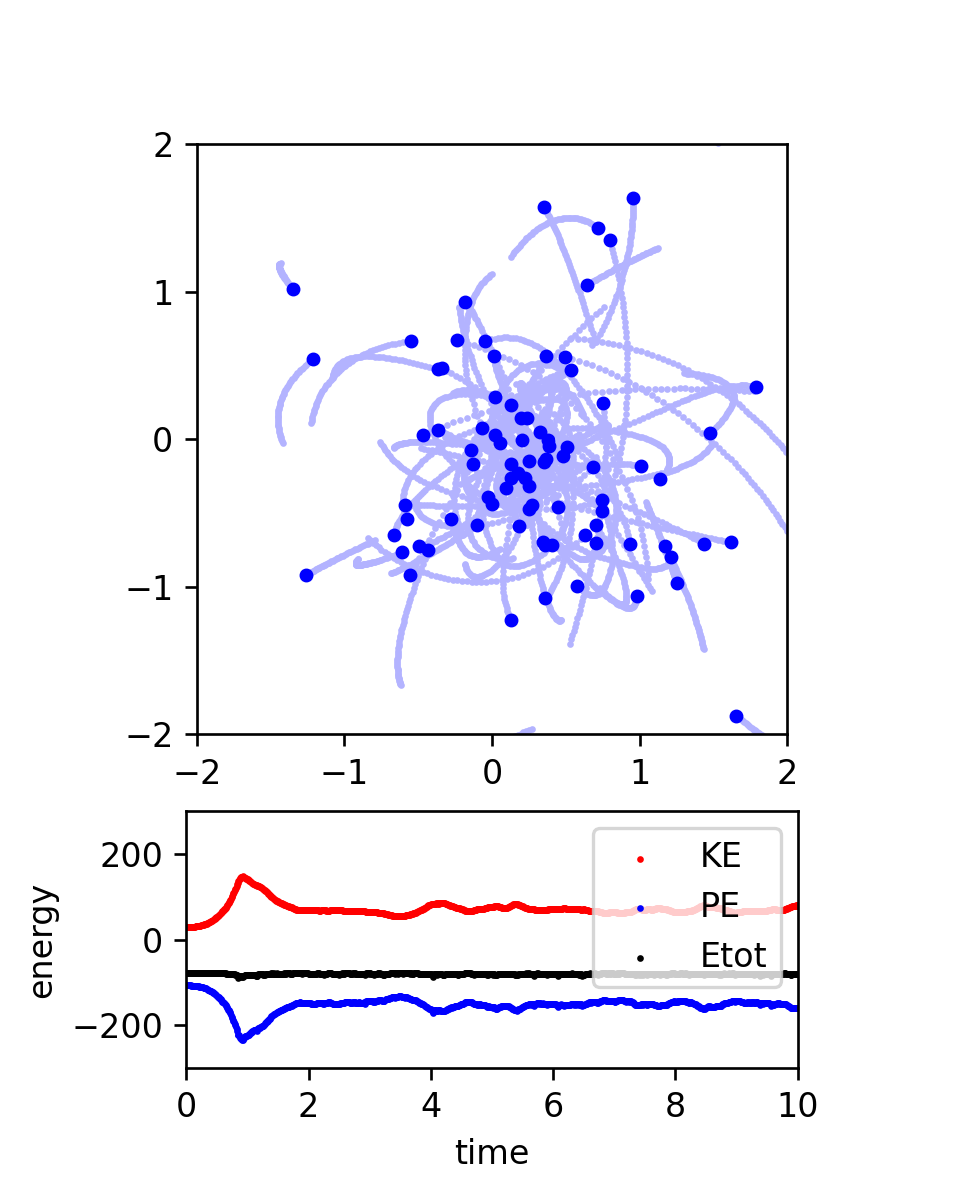
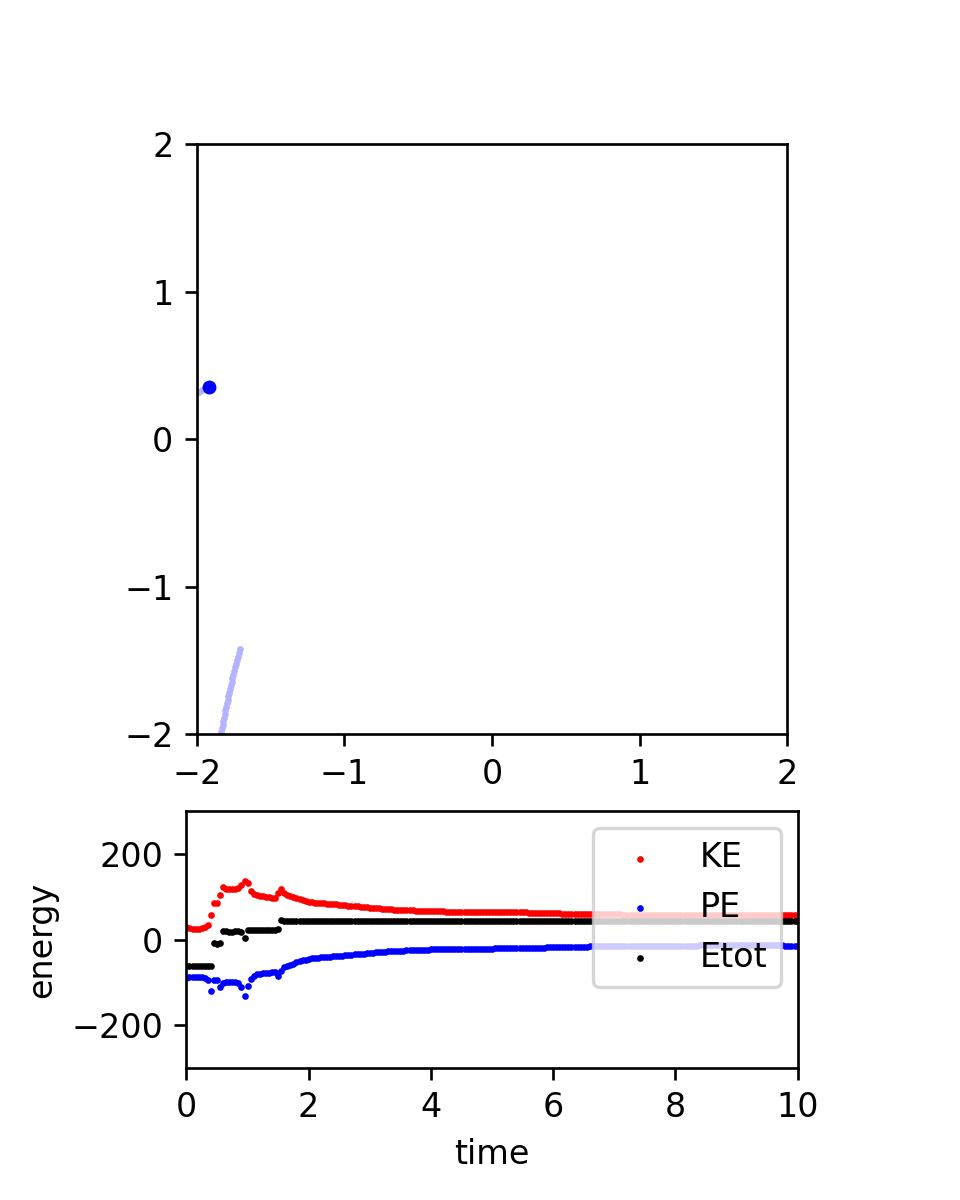
played around with sim

diff --git a/n-body-sim.py b/n-body-sim.py
@@ -80,10 +80,10 @@ def main():
 	""" N-body simulation """
 	
 	# Simulation parameters
-	N         = 100    # Number of particles
+	N         = 10    # Number of particles
 	t         = 0      # current time of the simulation
 	tEnd      = 10.0   # time at which simulation ends
-	dt        = 0.01   # timestep
+	dt        = 0.001   # timestep
 	softening = 0.1    # softening length
 	G         = 1.0    # Newton's Gravitational Constant
 	plotRealTime = True # switch on for plotting as the simulation goes along
